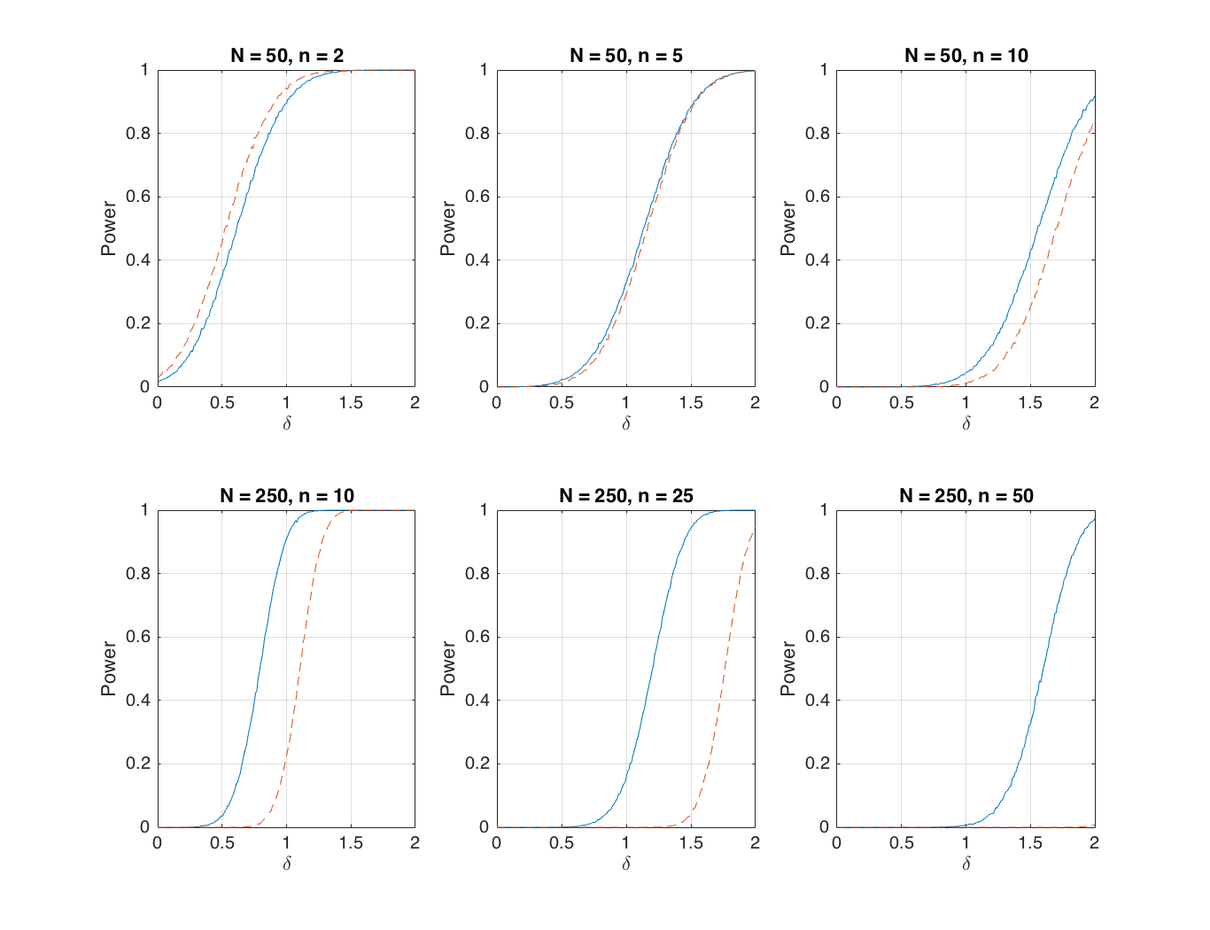
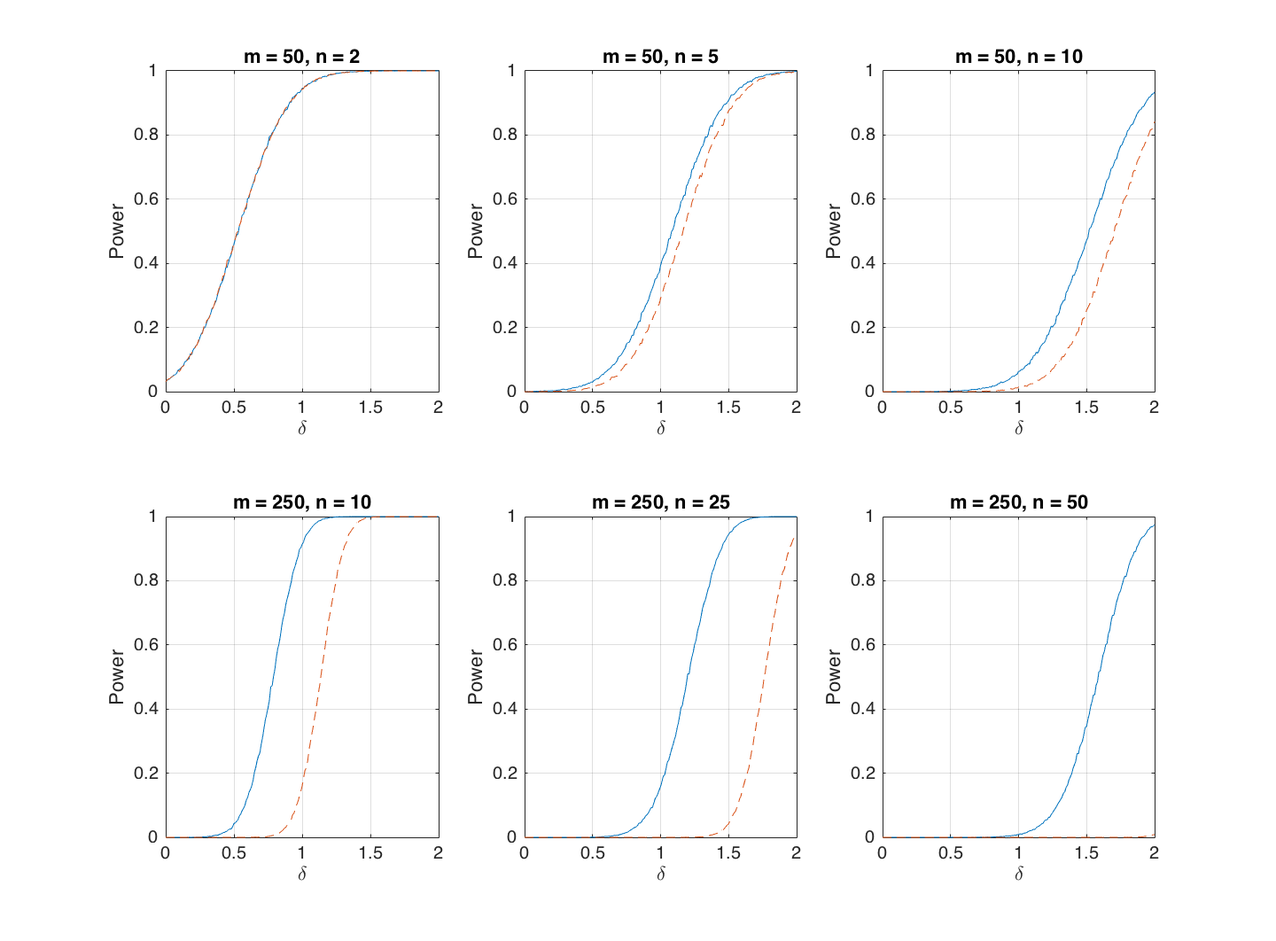
Correction factor for alpha included in Matlab code; Diagrams updated / added in paper

diff --git a/verifying-winner.tex b/verifying-winner.tex
@@ -9,6 +9,8 @@
 \usepackage[totalwidth=480pt, totalheight=680pt]{geometry}
 \usepackage{mathrsfs}
 \usepackage{tikz}
+\usetikzlibrary{calc}
+\usepackage{xcolor}
 
 \captionsetup{width=0.8\textwidth}
 \DeclareMathOperator*{\argmax}{arg\,max}
@@ -36,7 +38,7 @@ This paper deals with the selective inference problem encountered in rank verifi
 \section{Introduction}
 \label{sec:introduction}
 
-We often make observations that form a joint exponential family distribution. While it might be relatively obvious in the independent case, the observations can well be dependent and hinge on the natural parameters. Comparison of these natural parameters can produce useful inferences.
+We often make observations that form a joint distribution. While it might be relatively obvious in the independent case, the observations can well be dependent, complicating comparisons of parameters. However, comparison of these parameters can produce useful inferences.
 
 A classic question is on how to statistically verify empirical rankings based on simple exponential family models. As motivation, consider a 2016 Quinnipiac University poll of $890$ Iowa Republicans Poll. \cite{quinnipiac} The poll found that Trump was in the lead with $31\%$ of the vote, Cruz is the first runner-up with $24\%$, followed by Rubio at $17\%$. The other ten candidates, including ``Don't know'', trailed behind. \Cref{tbl:poll} shows the results of the poll. Note that we have made a simplifying assumption that poll represents a random sample of Iowa Republicans --- i.e.\ that the data are multinomial, with parameter $\left(\pi_{\text{Trump}}, \pi_{\text{Cruz}}, \pi_{\text{Rubio}}, \ldots\right)$ representing their support in the Iowa Republican population. In reality, Quinnipiac University Poll Institute has processed the data to make the sample more representative of the population of likely voters.
 
@@ -67,7 +69,7 @@ A classic question is on how to statistically verify empirical rankings based on
 \item This has a hidden upward selection bias, or ``winner's curse'', as we are only testing this hypothesis as Trump is leading in the polls. In other words, the hypothesis itself is random. Alternatively, we can note that the marginal type I error rate is indeed not so straightfoward. If the null hypothesis is ``$H_0: \text{Leader in polls has most support}$'', then for any distribution $F$ the marginal type I error rate is
 
 \begin{equation}
-\PP_F\left(\text{reject } H_0\right) = \sum_{j \text{ is a candidate}} \PP_F\left(\text{reject } H_0 \middle| j \text{ leads in polls}\right) \PP_F \left(j \text{ leads in polls}\right).
+\PP_F\left(\text{reject } H_0\right) = \sum_{\substack{j \text{ is a candidate} \\ j \text{ does not have most support}}} \PP_F\left(\text{reject } H_0 \middle| j \text{ leads in polls}\right) \PP_F \left(j \text{ leads in polls}\right).
 \label{eqn:marginal_error}
 \end{equation}
 
@@ -77,7 +79,13 @@ A classic question is on how to statistically verify empirical rankings based on
 
 We will construct a test as outlined by Fithian, Sun and Taylor in \cite{Fithian:2014ws}. The fundamental idea is to consider the selective type I error rate
 $$\PP_F\left(\text{reject } H_0 \middle| j \text{ leads in polls} \right), ~~~~~~~~ \text{where $j$ is a candidate,}$$
-instead. Note that controlling this selective type I error rate at $\alpha$ provides control of the marginal type I error rate given in \Cref{eqn:marginal_error} at $\alpha$ too.
+instead. Note that controlling this selective type I error rate at $\alpha$ provides control of the marginal type I error rate at $\alpha$ too. From \Cref{eqn:marginal_error},
+\begin{align}
+\PP_F\left(\text{reject } H_0\right) & = \sum_{\substack{j \text{ is a candidate} \\ j \text{ does not have most support}}} \PP_F\left(\text{reject } H_0 \middle| j \text{ leads in polls}\right) \PP_F \left(j \text{ leads in polls}\right). \nonumber \\
+& \le \sum_{\substack{j \text{ is a candidate} \\ j \text{ does not have most support}}} \alpha \PP_F \left(j \text{ leads in polls}\right). \nonumber \\
+& = \alpha \PP\left(\text{Leader in polls does not have most support}\right) \nonumber \\
+& \le \frac{n-1}{n} \alpha. \label{eqn:selective_vs_marginal}
+\end{align}
 
 Surprisingly, this also tackles the second issue above. The test reduces the multiple comparison problem into one comparison between Trump and Cruz. In fact, if 100 John Does entered the race with practically no support from the Iowa Republicans, the change in number of candidates will not change the test.
 
@@ -103,26 +111,30 @@ In this paper, we focus on Schur-concave exponential family, a broad class of di
 \label{sec:multinomial_example}
 
 Suppose we observe
-$$\left(X_1, \ldots, X_n\right) \sim \text{Multinomial}\left(N, \pi\right)$$
+$$\left(X_1, \ldots, X_n\right) \sim \text{Multinomial}\left(m, \pi\right)$$
 and we want to test
 $$H_{0j}: \pi_j \le \max_{k \ne j} \pi_k = \bigcup_{k \ne j} H_{0jk}: \pi_j \le \pi_k$$
 when $X_j$ is larger than all other $X_k$. To break ties, we introduce independent auxiliary random variable $U_j \sim U\left[0,1\right]$, and opt to test $H_{0j}$ in the event of
 $$A_j = \left\{X_j + U_j > \max_{k \ne j} X_k + U_k\right\}.$$
 The distribution, written in an exponential family format, is
-$$\exp\left(X_1 \log \pi_1 + \cdots + X_n \log \pi_n\right) \frac{1_{X_1 + \cdots + X_n = N}}{X_1! \cdots X_n!}.$$
+$$\exp\left(X_1 \log \pi_1 + \cdots + X_n \log \pi_n\right) \frac{1_{X_1 + \cdots + X_n = m}}{X_1! \cdots X_n!}.$$
 
 Without loss of generality, we will assume $X_1$ is considered largest with the tie-breaking method above in mind. Following the construction in \cite{Fithian:2014ws}, if we want to construct $p$-values $p_{1j}$ for $H_{01j}$, we need to first re-parametrize such that the selection event $A_1$ can be expressed as the sufficient statistic. The distribution is now
-$$\exp\left(\frac{X_1 - X_j}{2} \left(\log \pi_1 - \log \pi_j\right) + \cdots + \frac{X_1 + X_j}{2} \left(\log \pi_1 + \log \pi_j\right) + \cdots + X_n\right) \frac{1_{X_1 + \cdots + X_n \log \pi_n = N}}{X_1! \cdots X_n!}.$$
+$$\exp\left(\frac{X_1 - X_j}{2} \left(\log \pi_1 - \log \pi_j\right) + \cdots + \frac{X_1 + X_j}{2} \left(\log \pi_1 + \log \pi_j\right) + \cdots + X_n\right) \frac{1_{X_1 + \cdots + X_n = m}}{X_1! \cdots X_n!}.$$
 
 Next we condition on the sufficient statistics that are multiplied to the the nuisance parameter, in other words, we consider the conditional law
 $$\mathcal{L}_{\pi_1 = \pi_j}\left(\frac{X_1 - X_j}{2} \middle| X_2, \ldots, \frac{X_1 + X_j}{2}, \ldots, X_n, A_1\right),$$
 or equivalently, the conditional law
 $$\mathcal{L}_{\pi_1 = \pi_j}\left(X_1 \middle| X_2, \ldots, \frac{X_1 + X_j}{2}, \ldots, X_n, A_1\right),$$
 which is the distribution $\text{Binomial}\left(X_1 + X_j, \frac{1}{2}\right)$ truncated by the event $A_1$. The one-sided $p$-value $p_{1j}$ is thus given as
-$$\frac{\sum_{t = X_1}^{X_1 + X_j} \binom{X_1 + X_j}{t} \left(\frac{1}{2}\right)^{X_1 + X_j}}{\sum_{t = \left(X_1 + X_j\right)/2}^{X_1 + X_j} \binom{X_1 + X_j}{t} \left(\frac{1}{2}\right)^{X_1 + X_j}} = \frac{\sum_{t = X_1}^{X_1 + X_j} \binom{X_1 + X_j}{t}}{\sum_{t = \left(X_1 + X_j\right)/2}^{X_1 + X_j} \binom{X_1 + X_j}{t}},$$
+\begin{align*}
+p_{ij}\left(x_1, \ldots, x_n\right) & = \PP\left(X_1 \ge x_1 \middle| X_2 = x_2, \ldots, \frac{X_1 + X_j}{2} = \frac{x_1 + x_j}{2}, \ldots, X_n = x_n, A_1\right) \\
+& = \frac{\sum_{t = x_1}^{x_1 + x_j} \binom{x_1 + x_j}{t} \left(\frac{1}{2}\right)^{x_1 + x_j}}{\sum_{t = \left(x_1 + x_j\right)/2}^{x_1 + x_j} \binom{x_1 + x_j}{t} \left(\frac{1}{2}\right)^{x_1 + x_j}} \\
+& = \frac{\sum_{t = x_1}^{x_1 + x_j} \binom{x_1 + x_j}{t}}{\sum_{t = \left(x_1 + x_j\right)/2}^{x_1 + x_j} \binom{x_1 + x_j}{t}},
+\end{align*}
 and to account for the tie-breaking we adopted earlier, we
 \begin{itemize}
-\item multiply the first term in the numerator and the numerator by $1/m$ where $m$ is the number of observations tied for largest; otherwise,
+\item multiply the first term in the numerator and the numerator by $1/k$ where $k$ is the number of observations tied for largest; otherwise,
 \item multiply the first term in the denominator by $1/2$ if $X_1$ and $X_2$ has the same parity.
 \end{itemize}
 Noticing that if there are ties for the largest the $p$-value is $1$ and the denominator is really $1/2$ otherwise, we can write
@@ -132,26 +144,29 @@ It is possible to check that $p_{12} \ge p_{1j}$ for any $j > 2$. Since the null
 $$\PP_{H_{01}}\left(p_{12} < \alpha \middle| A_1\right) \le \max_{j>1} \PP_{H_{01j}}\left(p_{12} < \alpha \middle| A_1\right) \le \max_{j>1} \PP_{H_{01j}}\left(p_{1j} < \alpha \middle| A_1\right) \le \alpha,$$
 meaning that it is sufficient to construct a one-sided test between $X_1$ and $X_2$ and consider only $p_{12}$.
 
-It may appear quite surprising that ``verifying a winner'' as we propose in this section requires no adjustment for multiplicity, in the sense that we only need to compare the winner to the runner- up, just as we would have done if $n = 2$. After all, we know that the winner suffer’s from a winner's curse: given $X_5$ is the winner, $X_5 / N$ would overestimate $\pi_5$, and the larger $n$ is, the more severe this bias is likely to be. However, if $X_9$ is the runner-up, then $X_9 / N$ is likely biased upward nearly as much as $X_5$. Informally, we might say that $X_9$ suffer’s from a “runner-up’s curse” that is nearly as bad as the winner's curse; as a result, $X_5 - X_9$ is actually not all that biased upward. By multiplying the $p$-value by $2$, or equivalently performing a two-tailed test, takes care of what little bias there is. Indeed, performing a two-tailed test can be viewed as a sort of ``correction for multiplicity'', albeit one that we would have to make even if $n = 2$.
+It may appear quite surprising that ``verifying a winner'' as we propose in this section requires no adjustment for multiplicity, in the sense that we only need to compare the winner to the runner- up, just as we would have done if $n = 2$. After all, we know that the winner suffer’s from a winner's curse: given $X_5$ is the winner, $X_5 / m$ would overestimate $\pi_5$, and the larger $n$ is, the more severe this bias is likely to be. However, if $X_9$ is the runner-up, then $X_9 / m$ is likely biased upward nearly as much as $X_5$. Informally, we might say that $X_9$ suffer’s from a “runner-up’s curse” that is nearly as bad as the winner's curse; as a result, $X_5 - X_9$ is actually not all that biased upward. By multiplying the $p$-value by $2$, or equivalently performing a two-tailed test, takes care of what little bias there is. Indeed, performing a two-tailed test can be viewed as a sort of ``correction for multiplicity'', albeit one that we would have to make even if $n = 2$.
 
 \subsection{Connection with the subset selection problem}
 \label{sec:compare_subset}
 
 Gupta and Nagel \cite{Gupta:1967wg} devised a rule to select a subset that includes the maximum $\pi_j$. In other words, if the selected subset is $J\left(X\right)$, they guaranteed
 $$\PP\left(\argmax_j \pi_j \in J\left(X\right)\right) \ge 1 - \alpha.$$
-This was achieved by finding an integer $D$, as a function on $N$ and $n$, and select by
-$$J\left(X\right) = \left\{j: X_j \ge \max_k X_k - D\right\}.$$
+This was achieved by finding an integer $D$, as a function on $m$, $n$ and $\alpha$, and select by
+\begin{equation}
+J\left(X\right) = \left\{j: X_j \ge \max_k X_k - D\right\} \tag{Procedure GN}.
+\label{eqn:gn}
+\end{equation}
 Gupta and Nagel also provided the method to choose $D$, which we implemented. 
 
-\Cref{fig:power} gives the power curves for $\text{Multinomial}\left(N, \pi\right)$ and
+\Cref{fig:power} gives the power curves for $\text{Multinomial}\left(m, \pi\right)$ and
 $$\pi \propto \left(e^\delta, 1, \ldots, 1\right),$$
-for various combinations of $N$ and $n$. The procedure by Gupta and Nagel coincides with our procedure at $n = 2$ if we half our $\alpha$. However as $n$ grows, the selective test shoes significantly more power than Gupta and Nagel's test even for the same $\alpha$.
+for various combinations of $m$ and $n$. For \ref{eqn:gn}, we use $\alpha = 0.05$; but to account for the extra factor of $\frac{n-1}{n}$ in \Cref{eqn:selective_vs_marginal}, we will apply the selective procedure for with $\frac{n}{n-1} \alpha$ such that the marginal type I error rate for both procedures is controlled at $\alpha$. \ref{eqn:gn} coincides with our test at $n = 2$. However as $n$ grows, the selective test shoes significantly more power than Gupta and Nagel's test.
 
 \begin{figure}[htbp]
 \begin{center}
-\includegraphics[width = \textwidth, trim = {1.3in 0.7in 1.6in 0.6in}, clip]{plotMultinomialPower}
+\includegraphics[width = \textwidth]{plotMultinomialPower}
 \end{center}
-\caption{Power curves as a function of $\delta$. The plots in the first row all have $N = 50$ and the second row $N = 250$. The solid line is the power for the selective test and the dashed line Gupta and Nagel's test.}
+\caption{Power curves as a function of $\delta$. The plots in the first row all have $m = 50$ and the second row $m = 250$. The solid line is the power for the selective test and the dashed line Gupta and Nagel's test.}
 \label{fig:power}
 \end{figure}
 
@@ -163,7 +178,7 @@ We would like to extend the result from multinomials to exponential families. We
 X \sim \exp\left(\theta_1 X_1 + \cdots + \theta_n X_n\right) g\left(X\right) h\left(\theta\right).
 \label{eqn:exp_family}
 \end{equation}
-It is reasonable to assume that the distribution is ``symmetric'', i.e.\ if $\theta_j = \theta_k$, then the probability distribution remains the same when $X_j$ and $X_k$ are swapped. This corresponds to requiring $g\left(X\right)$ to be symmetric. We would also like to introduce a fairly mild additional condition that $g$ is {\em Schur-concave}. But first we define the notion of {\em majorization}.
+It is reasonable to assume that the family is ``symmetric'', i.e.\ if $\theta_j = \theta_k$, then the probability distribution remains the same when $X_j$ and $X_k$ are swapped. This corresponds to requiring $g\left(X\right)$ to be symmetric. We would also like to introduce a fairly mild additional condition that $g$ is {\em Schur-concave}. But first we define the notion of {\em majorization}.
 
 \begin{definition}
 For two vectors $a$ and $b$ in $\RR^n$, suppose permuting the two vectors in descending order gives
@@ -267,41 +282,83 @@ p_{13} & = \frac{\int_{D_{13}}^\infty g\left(M_{13} + z, X_2, M_{13} - z\right) 
 Suppose $X_2 < M_{13}$, then we can re-parametrize the integrals above to give
 \begin{align*}
 p_{12} & = \frac{\int_0^\infty g\left(X_1 + z, X_2 - z, X_3\right) \,dz}{\int_0^\infty g\left(M_{12} + z, M_{12} - z, X_3\right) \,dz} \\
-p_{13} & = \frac{\int_0^\infty g\left(X_1 + z, X_2, X_3 - z\right) \,dz}{\int_0^\infty g\left(M_{13} + z, X_2, M_{13} - z\right) \,dz}
+& = \frac{\int_0^\infty g\left(X_1 + z, X_2 - z, X_3\right) \,dz}{\int_{-D_{12}}^\infty g\left(X_1 + z, X_2 - z, X_3\right) \,dz} \\
+p_{13} & = \frac{\int_0^\infty g\left(X_1 + z, X_2, X_3 - z\right) \,dz}{\int_0^\infty g\left(M_{13} + z, X_2, M_{13} - z\right) \,dz} \\
+& = \frac{\int_0^\infty g\left(X_1 + z, X_2, X_3 - z\right) \,dz}{\int_{-D_{13}}^\infty g\left(X_1 + z, X_2, X_3 - z\right) \,dz}
 \end{align*}
+To help see the re-parametrization, each of these integrals can be thought of in terms integrals along segments and rays. For example $p_{12}$ can be represented in terms integrals $A$ and $B$ in \Cref{fig:p-value}. Specifically,
+$$p_{12} = \frac{B}{A + B}$$
 
 \begin{figure}[htbp]
 \begin{center}
 \begin{tikzpicture}
-	\draw[dashed, thick] (-3, 1.5) -- (-2, 1);
-	\draw[->, thick] (-2, 1) -- (6, -3);
-	\draw[->, thick] (-3, -2) -- (6, 4);
-	\fill (0, 0) circle(2pt) node[right] {$\left(X_1, X_2, X_3\right)$};
-	\fill (-2, 1) circle(2pt) node[above right] {$\left(M_{12}, M_{12}, X_3\right)$};
-	\fill (-3, -2) circle(2pt) node[below] {$\left(M_{13}, X_2, M_{13}\right)$};
-	\fill (-3, 1.5) circle(2pt) node[above] {$\left(M_{13}, X_2 + D_{13}, X_3\right)$};
-	\draw[dotted, thick] (-3, 1.5) -- (-3, -2) node[midway, below, rotate=-90] {$\succeq$};
-	\draw[dotted, thick] (-2, 1) -- (-2, -4/3) node[midway, below, rotate=-90] {$\succeq$};
-	\draw[dotted, thick] (3, -1.5) -- (3, 2) node[midway, below, rotate=-90] {$\succeq$};
-	\draw[dotted, thick] (5, -2.5) -- (5, 10/3) node[midway, below, rotate=-90] {$\succeq$};
+	\coordinate (C1) at (60:5);
+	\coordinate (C2) at (300:3);
+	\coordinate (A) at (60:3);
+	\coordinate (B) at ($(A) + (330:3)$);
+	\draw[dashed] (0, 0) -- (C1);
+	\draw[dashed] (0, 0) -- (C2);
+	\fill[yellow!50] (0, 0) -- (C1) -- ($(C1) + (7, 0)$) -- ($(C2) + (8, 0)$) -- (C2) -- cycle;
+	\node[above left] at ($(C2) + (8, 0)$) {$A_1$};
+	\draw[thick] (A) -- (B) node[midway, above right] {$A$};
+	\draw[thick, ->] (B) -- ++(330:5) node[midway, above right] {$B$};
+	\fill (A) circle(2pt) node[above left] {$\left(M_{12}, M_{12}, X_3\right)$};
+	\fill (B) circle(2pt) node[above right] {$\left(X_1, X_2, X_3\right)$};
+	\draw[thick, ->] (0, 0) -- (1, 0) node[right] {\tiny $\left(1, 0, 0\right)$};
+	\draw[thick, ->] (0, 0) -- (120:1) node[above] {\tiny $\left(0, 1, 0\right)$};
+	\draw[thick, ->] (0, 0) -- (240:1) node[below] {\tiny $\left(0, 0, 1\right)$};
 \end{tikzpicture}
 \end{center}
-\caption{The two $p$-values constructed corresponds to taking integrals of $g$ along these rays, that lie on a level set of $x_1 + x_2 + x_3$. The dashed line corresponds to extending the integral in the denominator of \Cref{eqn:int_extension}. The dotted lines with the majorization symbols show the majorization relation between vectors on the two rays.}
-\label{fig:rays}
+\caption{The $p$-value $p_{12}$ can be written in terms of integral $A$ along the segment and $B$ along the ray. The diagram is drawn a level set of $x_1 + x_2 + x_3$. The yellow region represents the selection event $A_1$.}
+\label{fig:p-value}
 \end{figure}
 
-We can re-parametrize this further, thanks to some geometric intuition (ref.\ \Cref{fig:rays}) that both $p$-values are actually integrals of $g$ along intersecting rays. We have
-\begin{align}
-p_{12} & = \frac{\int_0^\infty g\left(X_1 + z, X_2 - z, X_3\right) \,dz}{\int_{-D_{12}}^\infty g\left(X_1 + z, X_2 - z, X_3\right) \,dz} \nonumber \\
-& \ge \frac{\int_0^\infty g\left(X_1 + z, X_2 - z, X_3\right) \,dz}{\int_{-D_{13}}^\infty g\left(X_1 + z, X_2 - z, X_3\right) \,dz} \label{eqn:int_extension} \\
-p_{13} & = \frac{\int_0^\infty g\left(X_1 + z, X_2, X_3 - z\right) \,dz}{\int_{-D_{13}}^\infty g\left(X_1 + z, X_2, X_3 - z\right) \,dz} \label{eqn:p13}
-\end{align}
+\Cref{fig:compare_rays} have both the $p$-values shown on the same diagram. Proving $p_{12} \ge p_{13}$ is the same as proving
+$$\frac{B}{A+B} \ge \frac{D}{C+D} ~~~~ \Longleftrightarrow ~~~~ \frac{B}{A} \ge \frac{D}{C}.$$
+We will prove so be extending $A$ to include $A^*$ on the diagram. We denote the sum as $A'$. Formally,
+\begin{equation}
+A' = \int_{-D_{13}}^0 g\left(X_1 + z, X_2 - z, X_3\right) \,dz \ge \int_{-D_{12}}^0 g\left(X_1 + z, X_2 - z, X_3\right) \,dz = A.
+\label{eqn:int_extension}
+\end{equation}
+It is thus sufficient to show that $B \ge D$ and $C \ge A'$.
+
+\begin{figure}[htbp]
+\begin{center}
+\begin{tikzpicture}
+	\coordinate (C1) at (60:5);
+	\coordinate (C2) at (300:3);
+	\coordinate (A) at (60:3);
+	\coordinate (B) at ($(A) + (330:3)$);
+	\coordinate (C) at ($(0, 0)!(B)!(C2)$);
+	\coordinate (D) at ($(A) + (150:1)$);
+	\draw[dashed] (0, 0) -- (C1);
+	\draw[dashed] (0, 0) -- (C2);
+	\fill[yellow!50] (0, 0) -- (C1) -- ($(C1) + (7, 0)$) -- ($(C2) + (8, 0)$) -- (C2) -- cycle;
+	\node[above left] at ($(C2) + (8, 0)$) {$A_1$};
+	\draw[thick] (A) -- (B) node[midway, above right] {$A$};
+	\draw[thick, ->] (B) -- ++(330:5) node[midway, below left] {$B$};
+	\fill (A) circle(2pt) node[above right] {$\left(M_{12}, M_{12}, X_3\right)$};
+	\fill (B) circle(2pt) node[right] {$\left(X_1, X_2, X_3\right)$};
+	\draw[thick] (C) -- (B) node[midway, below right] {$C$};
+	\node[below] at (C) {$\left(M_{13}, X_2, M_{13}\right)$};
+	\draw[thick, ->] (B) -- ++(30:5) node[midway, above left] {$D$};
+	\fill ($(0, 0)!(B)!(C2)$) circle(2pt);
+	\draw[thick, dashed] (A) -- (D) node[midway, below left] {$A^*$};
+	\fill (D) circle(2pt) node[above] {$\left(M_{13}, X_2 + D_{13}, X_3\right)$};
+	\draw[thick, dotted] (C) -- (D) node[midway, below, rotate=-90] {$\succeq$};
+	\draw[thick, dotted] (A) -- ++(0, -3) node[midway, below, rotate=-90] {$\succeq$};
+	\draw[thick, dotted] ($(B) + (30:4)$) -- ($(B) + (330:4)$) node[midway, below, rotate=-90] {$\succeq$};
+\end{tikzpicture}
+\end{center}
+\caption{The $p$-value $p_{12}$ can be written in terms of integral $A$ along the segment and $B$ along the ray; and $p_{13}$ in terms of $C$ and $D$. $A'$ would refer to the sum of $A$ with the dashed line portion labeled as $A^*$, formally explained in \Cref{eqn:int_extension}. The majorization relation is indicated by the dotted line.}
+\label{fig:compare_rays}
+\end{figure}
 
 Indeed from the second point \Cref{lma:two_properties} we have
 $$\left(X_1 + z, X_2 - z, X_3\right) \succeq \left(X_1 + z, X_2, X_3 - z\right)$$
-for $z \le 0$ and the majorization reversed for $z \ge 0$. So Schur-concavity shows that
+for $z \le 0$ and the majorization reversed for $z \ge 0$. This majorization relation is indicated as the dotted line in \Cref{fig:compare_rays}. So Schur-concavity shows that
 $$g\left(X_1 + z, X_2 - z, X_3\right) \le g\left(X_1 + z, X_2, X_3 - z\right)$$
-for $z \le 0$, and the inequality reversed for $z \ge 0$. Consequently, $p_{12} \ge p_{13}$ by comparing \Cref{eqn:int_extension,eqn:p13}.
+for $z \le 0$, and the inequality reversed for $z \ge 0$. Taking integrals on both sides yields the desired inequality.
 
 For the alternative case where $X_2 \ge M_{13}$, it follows from a similar proof. In either cases, $p_{12} \ge p_{13}$, or in generality, $p_{12} \ge p_{1j}$ for $j \ge 1$. A test based on only $X_1$ and $X_2$ is sufficient for the null hypothesis $H_{0j}$, if the carrying measure $g$ is Schur-concave. By \Cref{thm:stoch}, rejecting this null hypothesis is equivalent to inferring that $X_1 \ge X_j$ for all $j>1$ stochastically.
 
@@ -342,7 +399,7 @@ p_{13} & = \frac{\int_0^\infty \exp\left(\delta \left(z + D_{13}\right)\right) g
 & = \frac{\int_0^\infty \exp\left(\delta z\right) g\left(X_1 + z, X_2, X_3 - z\right) \,dz}{\int_{-D_{13}}^\infty \exp\left(\delta z\right) g\left(X_1 + z, X_2, X_3 - z\right) \,dz}
 \end{align*}
 
-The same argument in \Cref{fig:rays} shows that $p_{12} \ge p_{13}$. This is again true for the case where $X_2 \ge M_{13}$ as well. This means that the bound can be constructed considering only $p_{12}$.
+The same argument in \Cref{fig:compare_rays} shows that $p_{12} \ge p_{13}$. This is again true for the case where $X_2 \ge M_{13}$ as well. This means that the bound can be constructed considering only $p_{12}$.
 
 \end{proof}
 
@@ -379,24 +436,43 @@ We can construct selective $p$-values by conditioning on $M_j\left(X\right)$, as
 \begin{figure}[htbp]
 \begin{center}
 \begin{tikzpicture}
-	\draw[dashed, thick] (-3, 1.5) -- (-2, 1);
-	\draw[thick] (-2, 1) -- (5, -2.5);
-	\draw[thick] (-3, -2) -- (5, 10/3);
-	\fill (0, 0) circle(2pt) node[right] {$\left(X_j, X_{j+1}, X_k\right)$};
-	\fill (-2, 1) circle(2pt) node[above right] {$\left(M_{j\left(j+1\right)}, M_{j\left(j+1\right)}, X_k\right)$};
-	\fill (-3, -2) circle(2pt) node[below] {$\left(M_{jk}, X_{\left(j+1\right)}, M_{jk}\right)$};
-	\fill (-3, 1.5) circle(2pt) node[above] {$\left(M_{jk}, X_{j+1} + D_{jk}, X_k\right)$};
-	\draw[dotted, thick] (-3, 1.5) -- (-3, -2) node[midway, below, rotate=-90] {$\succeq$};
-	\draw[dotted, thick] (-2, 1) -- (-2, -4/3) node[midway, below, rotate=-90] {$\succeq$};
-	\draw[dotted, thick] (3, -1.5) -- (3, 2) node[midway, above, rotate=-90] {$\succeq$};
-	\draw[dotted, thick] (5, -3) -- (5, 4) node[midway, above, rotate=-90] {Truncation for $X_j < X_{j-1}$};
+	\coordinate (C1) at (60:5);
+	\coordinate (C2) at (300:3);
+	\coordinate (A) at (60:3);
+	\coordinate (B) at ($(A) + (330:3)$);
+	\coordinate (C) at ($(0, 0)!(B)!(C2)$);
+	\coordinate (D) at ($(A) + (150:1)$);
+	\coordinate (C3) at ($(B) + (330:5)$);
+	\coordinate (C4) at ($(B) + (30:5)$);
+	\coordinate (C5) at ($(C3)!(C1)!(C4)$);
+	\coordinate (C6) at ($(C3)!(C2)!(C4)$);
+	\draw[dashed] (0, 0) -- (C1);
+	\draw[dashed] (0, 0) -- (C2);
+	\draw[dashed] (C5) -- (C6) node[midway, above, rotate = -90] {Truncation for $X_j < X_{j-1}$};
+	\fill[yellow!50] (0, 0) -- (C1) -- (C5) -- (C6) -- (C2) -- cycle;
+	\node[above] at ($(C2)!0.7!(C6)$) {$A_1$};
+	\draw[thick] (A) -- (B) node[midway, above right] {$A$};
+	\draw[thick] (B) -- (C3) node[midway, below left] {$B$};
+	\fill (C3) circle(2pt);
+	\fill (A) circle(2pt) node[above right] {$\left(M_{12}, M_{12}, X_3\right)$};
+	\fill (B) circle(2pt) node[right] {$\left(X_1, X_2, X_3\right)$};
+	\draw[thick] (C) -- (B) node[midway, below right] {$C$};
+	\node[below] at (C) {$\left(M_{13}, X_2, M_{13}\right)$};
+	\draw[thick] (B) -- (C4) node[midway, above left] {$D$};
+	\fill (C4) circle(2pt);
+	\fill ($(0, 0)!(B)!(C2)$) circle(2pt);
+	\draw[thick, dashed] (A) -- (D) node[midway, below left] {$A^*$};
+	\fill (D) circle(2pt) node[above] {$\left(M_{13}, X_2 + D_{13}, X_3\right)$};
+	\draw[thick, dotted] (C) -- (D) node[midway, below, rotate=-90] {$\succeq$};
+	\draw[thick, dotted] (A) -- ++(0, -3) node[midway, below, rotate=-90] {$\succeq$};
+	\draw[thick, dotted] ($(B) + (30:4)$) -- ($(B) + (330:4)$) node[midway, below, rotate=-90] {$\succeq$};
 \end{tikzpicture}
 \end{center}
-\caption{The two $p$-values constructed corresponds to taking integrals of $g$ along these segments, that lie on a level set of $x_j + x_{j+1} + x_k$. The dashed line corresponds to extending the integral in the denominator of \Cref{eqn:int_extension}. The dotted line on the far right is the truncation that enforces $X_j < X_{j-1}$.}
+\caption{The two $p$-values constructed corresponds to taking integrals of $g$ along these segments, that lie on a level set of $x_j + x_{j+1} + x_k$. The dashed line corresponds to extension in \Cref{eqn:int_extension}. The dotted line on the far right is the truncation that enforces $X_j < X_{j-1}$.}
 \label{fig:crop_rays}
 \end{figure}
 
-Here we are only comparing $X_j$ to $X_{j+1}$ by \Cref{sec:exponential_families}. The upper truncation for $X_j$ can be represented by cropping \Cref{fig:rays} along a vertical line, shown in \Cref{fig:crop_rays}, thus the proof of \Cref{thm:main_result} on sufficiency to compare $X_1$ and $X_2$ remains valid with appropriate conditioning. Again we can construct the $p$-values as in \Cref{eqn:p1j} for $k>j$.
+Here we are only comparing $X_j$ to $X_{j+1}$ by \Cref{sec:exponential_families}. The upper truncation for $X_j$ can be represented by cropping \Cref{fig:compare_rays} along a vertical line, shown in \Cref{fig:crop_rays}, thus the proof of \Cref{thm:main_result} on sufficiency to compare $X_1$ and $X_2$ remains valid with appropriate conditioning. Again we can construct the $p$-values as in \Cref{eqn:p1j} for $k>j$.
 
 $$p_{jk} = \frac{\int_{D_{jk}}^{X_{j-1}} g\left(X_1, \ldots, M_{jk} + z, \ldots, M_{jk} - z, \ldots, X_n\right) \,dz}{\int_{\max\left\{X_{j+1} - M_{jk}, 0\right\}}^{X_{j-1}} g\left(X_1, \ldots, M_{jk} + z, \ldots, M_{jk} - z, \ldots, X_n\right) \,dz}.$$
 
@@ -434,7 +510,7 @@ p & \cdots & p & 1
 and $p$ is fixed. Then the natural parameter is ordered the same way as $\mu$. Our test can thus be used to verify the order of the mean.
 
 \item Multinomial distribution, e.g.\ the Iowa Republican poll example in \Cref{sec:introduction}.
-$$p\left(x\right) \propto \exp\left(x^T \left(\log \pi\right)\right) \frac{1_{\left\{x_1 + \cdots + x_n = N\right\}}}{x_1! \cdots x_n!}$$
+$$p\left(x\right) \propto \exp\left(x^T \left(\log \pi\right)\right) \frac{1_{\left\{x_1 + \cdots + x_n = m\right\}}}{x_1! \cdots x_n!}$$
 Comparing $\pi_i$ is the same $\log \pi_i$, the natural parameters. Note that the multinomial coefficient is naturally Schur-concave. The step-down procedure is applied to verify the position of the other candidates. Note that for a multinomial distribution, the conditioning \Cref{eqn:step_down_law} is equivalent to conditioning only on $M_{j\left(j+1\right)}$. We summarize the test in \Cref{tbl:poll_analysis}.
 
 \begin{table}[htbp]

diff --git a/plotMultinomialPower.m b/plotMultinomialPower.m
@@ -4,29 +4,29 @@ alpha = 0.05;
 subplot(2, 3, 1);
 multinomialPower(50, 2, alpha, numSample);
 grid on;
-title('N = 50, n = 2');
+title('m = 50, n = 2');
 
 subplot(2, 3, 2);
 multinomialPower(50, 5, alpha, numSample);
 grid on;
-title('N = 50, n = 5');
+title('m = 50, n = 5');
 
 subplot(2, 3, 3);
 multinomialPower(50, 10, alpha, numSample);
 grid on;
-title('N = 50, n = 10');
+title('m = 50, n = 10');
 
 subplot(2, 3, 4);
 multinomialPower(500, 20, alpha, numSample);
 grid on;
-title('N = 250, n = 10');
+title('m = 250, n = 10');
 
 subplot(2, 3, 5);
 multinomialPower(500, 50, alpha, numSample);
 grid on;
-title('N = 250, n = 25');
+title('m = 250, n = 25');
 
 subplot(2, 3, 6);
 multinomialPower(500, 100, alpha, numSample);
 grid on;
-title('N = 250, n = 50');
+title('m = 250, n = 50');

diff --git a/multinomialPower.m b/multinomialPower.m
@@ -7,7 +7,7 @@
 function [] = multinomialPower (m, n, alpha, numSample)
     % delta ranges from 0 to 2
     delta = 0:0.01:2;
-    sel = arrayfun(@(x) selectivePower(m, n, x, alpha, numSample), delta);
+    sel = arrayfun(@(x) selectivePower(m, n, x, alpha / (n-1) * n, numSample), delta);
     gn = gnPower(m, n, delta, alpha, numSample);
     plot(delta, sel, delta, gn, '--');
     % legend('Selective', 'Gupta and Nagel', 'Location', 'southeast');
